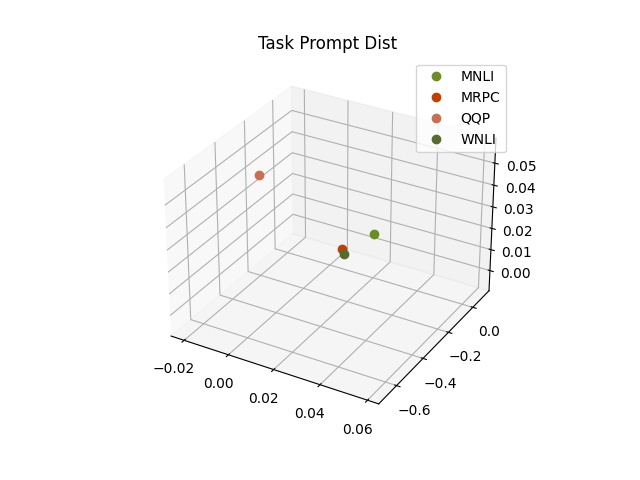
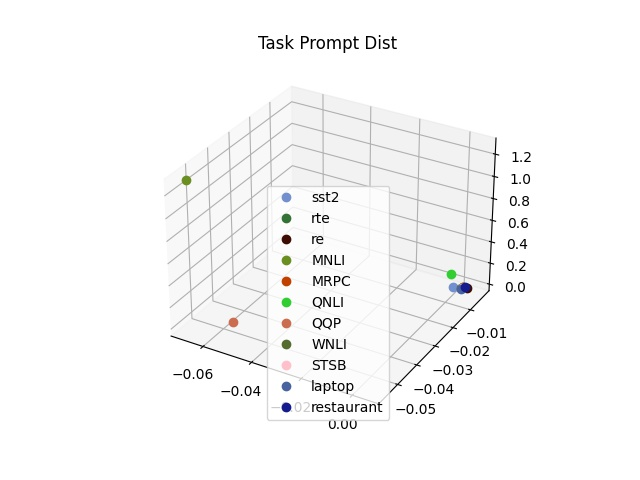
update

Changed region(s): [[0.25, 0.125, 0.8438, 0.9062], [0.625, 0.6562, 0.7812, 0.875]]

diff --git a/draw_cuda_taskprompt.py b/draw_cuda_taskprompt.py
@@ -95,7 +95,7 @@ def train_AE(input=None, out_features=None):
     # mean-squared error loss
     criterion = nn.MSELoss()
 
-    epochs=30
+    epochs=10
     iterations=100
     model.train()
     for epoch in range(epochs):
@@ -383,7 +383,8 @@ all_label = all_label.to("cpu").numpy()
 
 task_map={0:"sst2",1:"rte",2:"re",3:"MNLI",4:"MRPC",5:"QNLI",6:"QQP",7:"WNLI",8:"STSB",9:"laptop",10:"restaurant"}
 
-color_map={0:"#728FCE",1:"#347235",2:"#3D0C02",3:"#6B8E23",4:"#C04000",5:"QNLI",6:"#CB6D51",7:"#556B2F",8:"STSB",9:"#4863A0",10:"#151B8D"}
+#color_map={0:"#728FCE",1:"#347235",2:"#3D0C02",3:"#6B8E23",4:"#C04000",5:"QNLI",6:"#CB6D51",7:"#556B2F",8:"STSB",9:"#4863A0",10:"#151B8D"}
+color_map={0:"#728FCE",1:"#347235",2:"#3D0C02",3:"#6B8E23",4:"#C04000",5:"#32CD32",6:"#CB6D51",7:"#556B2F",8:"#FFC0CB",9:"#4863A0",10:"#151B8D"}
 
 
 blocked_list = []
@@ -401,7 +402,7 @@ blocked_list = []
 #blocked_list = [1,2,3,5,7,8]
 
 #NLI, Paraphrase
-blocked_list = [0,1,2,5,8,9,10]
+#blocked_list = [0,1,2,5,8,9,10]
 
 #re generate id
 #plot on 3D: https://www.delftstack.com/zh-tw/howto/matplotlib/scatter-plot-legend-in-matplotlib/#%25E5%259C%25A8-matplotlib-3d-%25E6%2595%25A3%25E9%25BB%259E%25E5%259C%2596%25E4%25B8%258A%25E6%2596%25B0%25E5%25A2%259E%25E5%259C%2596%25E4%25BE%258B
